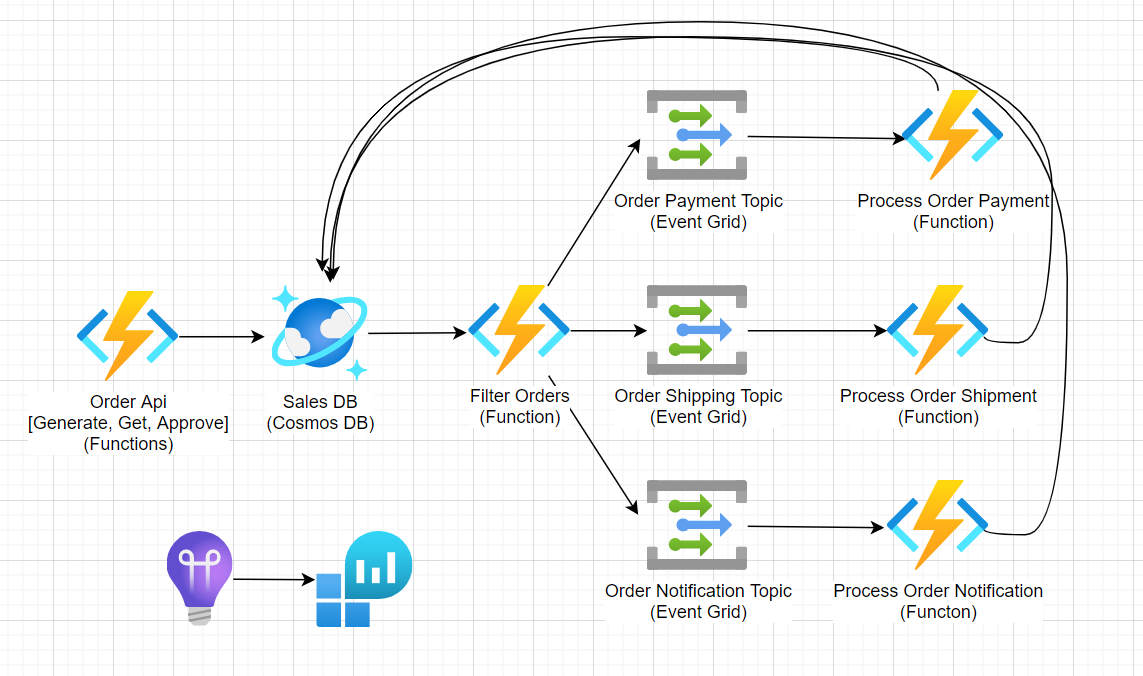
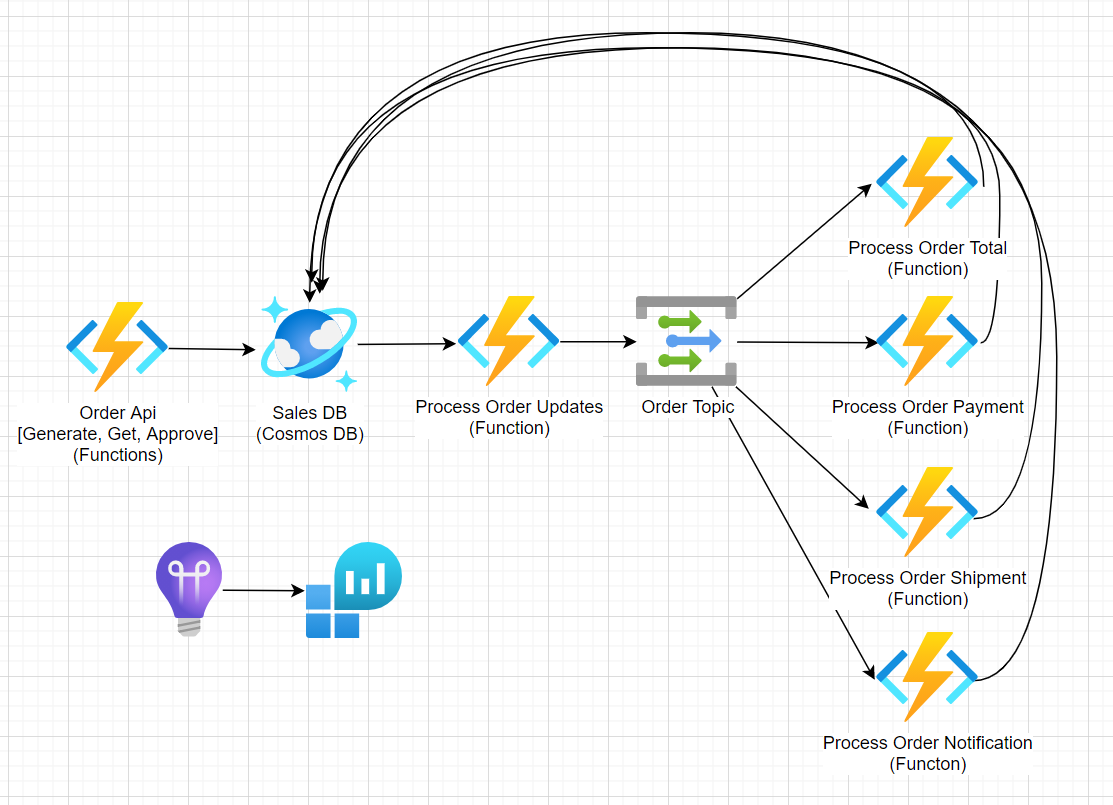
Update readme.

diff --git a/README.md b/README.md
@@ -2,14 +2,62 @@
 
 This is an example of an event-driven processing pipeline utilizing Azure Functions, Azure Cosmos DB, and Azure Event Grid.
 
-In this example, any number of fake orders can be generated and run through an order processing pipeline. This pipeline has 5 states for an order:
-
-* Created - The initial state when the order is first received through the Web API.
-* Pending Payment Approval - When the order total has been calculated and the order is over $100.
-* Paid - The order has been paid for.
-* Shipped - The order has been shipped.
-* Notified - The customer has been notified and order processing is complete.
+In this example, any number of fake orders can be generated and run through an order processing pipeline.
 
 ## Architecture
 
 ![Architecture](./Assets/architecture.png)
+
+There are 6 deployed components for this architecture:
+
+1. Function App - Acts as both the API for order interaction and the processing pipeline.
+1. Cosmos DB (Core API) - Used to persist data and notify the system of order updates.
+1. Event Grid Topic - Sends events to subscribers (Azure Functions) with filters to ensure the workflow/pipeline executes.
+1. Application Insights - Captures telemetry from the Function App for logging and metrics.
+1. Log Analytics Workspace - The log store behind Application Insights.
+1. Storage Account (Not pictured) - Holds the deployment files for the Function App.
+
+## The Pipeline
+
+The following steps are modeled in the processing pipeline to simulate a simple, linear business process:
+
+1. The Order API creates new orders and saves them to the database.
+1. Order updates from the Cosmos DB change feed are forwarded to the Event Grid Topic through the ProcessOrderUpdates function. This happens on every update to an order in the DB and facilitates the overall workflow.
+1. The new orders are sent to ProcessOrderTotal for total calculation. Orders below $100 are auto-approved for payment.
+    * If the order is above $100, an approval for order payment must be set to the Order API
+1. After order approval, ProcessOrderPayment charges the customer for the order.
+1. The order is then shipped with ProcessOrderShipment.
+1. The customer is then notified of the shipment with ProcessOrderNotification.
+
+Each of the functions triggered by the Event Grid order topic receive filtered events from their subscriptions to ensure they only receive events for their step in the workflow. The filters for each function are:
+
+* ProcessOrderTotal
+  * data.total - Is null or undefined
+* ProcessOrderPayment
+  * data.paymentApprovedTimestamp - Is not null
+  * data.paidTimestamp - Is null or undefined
+* ProcessOrderShipment
+  * data.paidTimestamp - Is not null
+  * data.shippedTimestamp - Is null or undefined
+* ProcessOrderNotification
+  * data.shippedTimestamp - Is not null
+  * data.notifiedTimestamp - Is null or undefined
+
+## Environment Variables
+
+When running locally, the following need to be set for the **local.settings.json** file. When deployed, the values section must be set as Application Settings so they will be injected as environment variables.
+
+```json
+{
+  "IsEncrypted": false,
+  "Values": {
+    "AzureWebJobsStorage": "[storage-account-connection-string]",
+    "FUNCTIONS_WORKER_RUNTIME": "dotnet",
+    "DatabaseName": "Sales",
+    "CollectionName": "Orders",
+    "CosmosDBConnection": "[cosmos-account-connection-string]",
+    "OrderTopicEndpoint": "[event-grid-topic-endpoint]",
+    "OrderTopicKey": "[event-grid-topic-key]"
+  }
+}
+```
